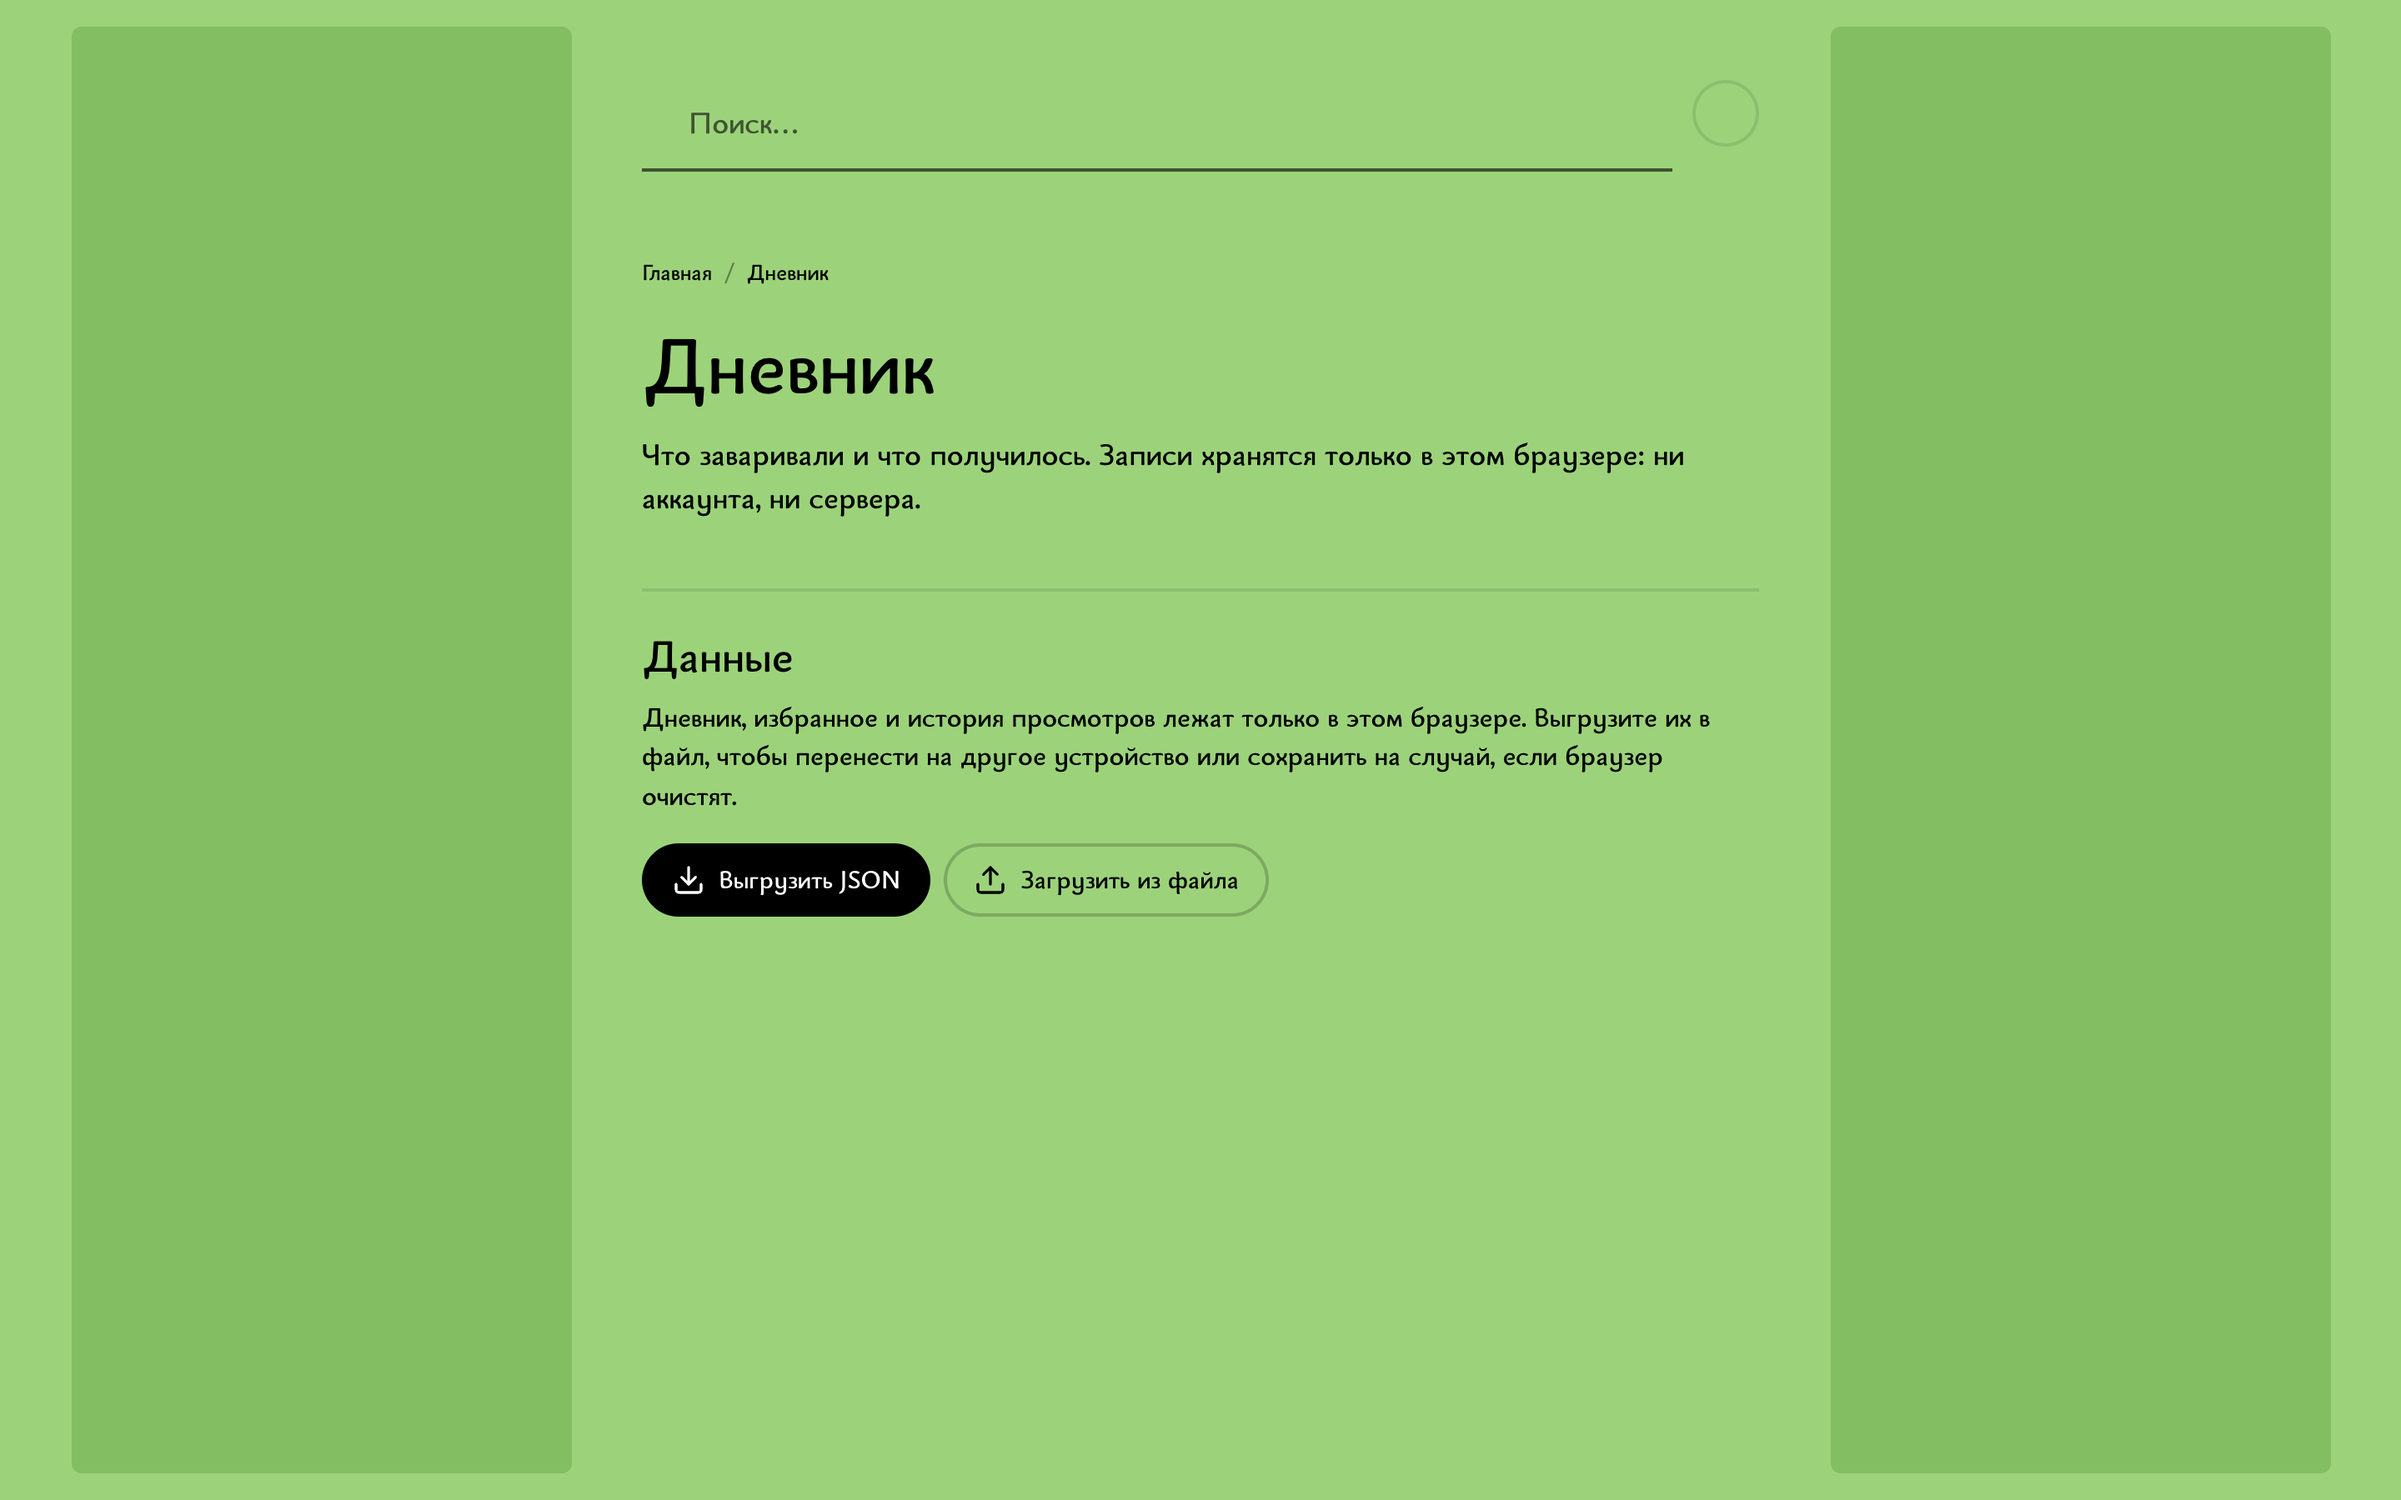
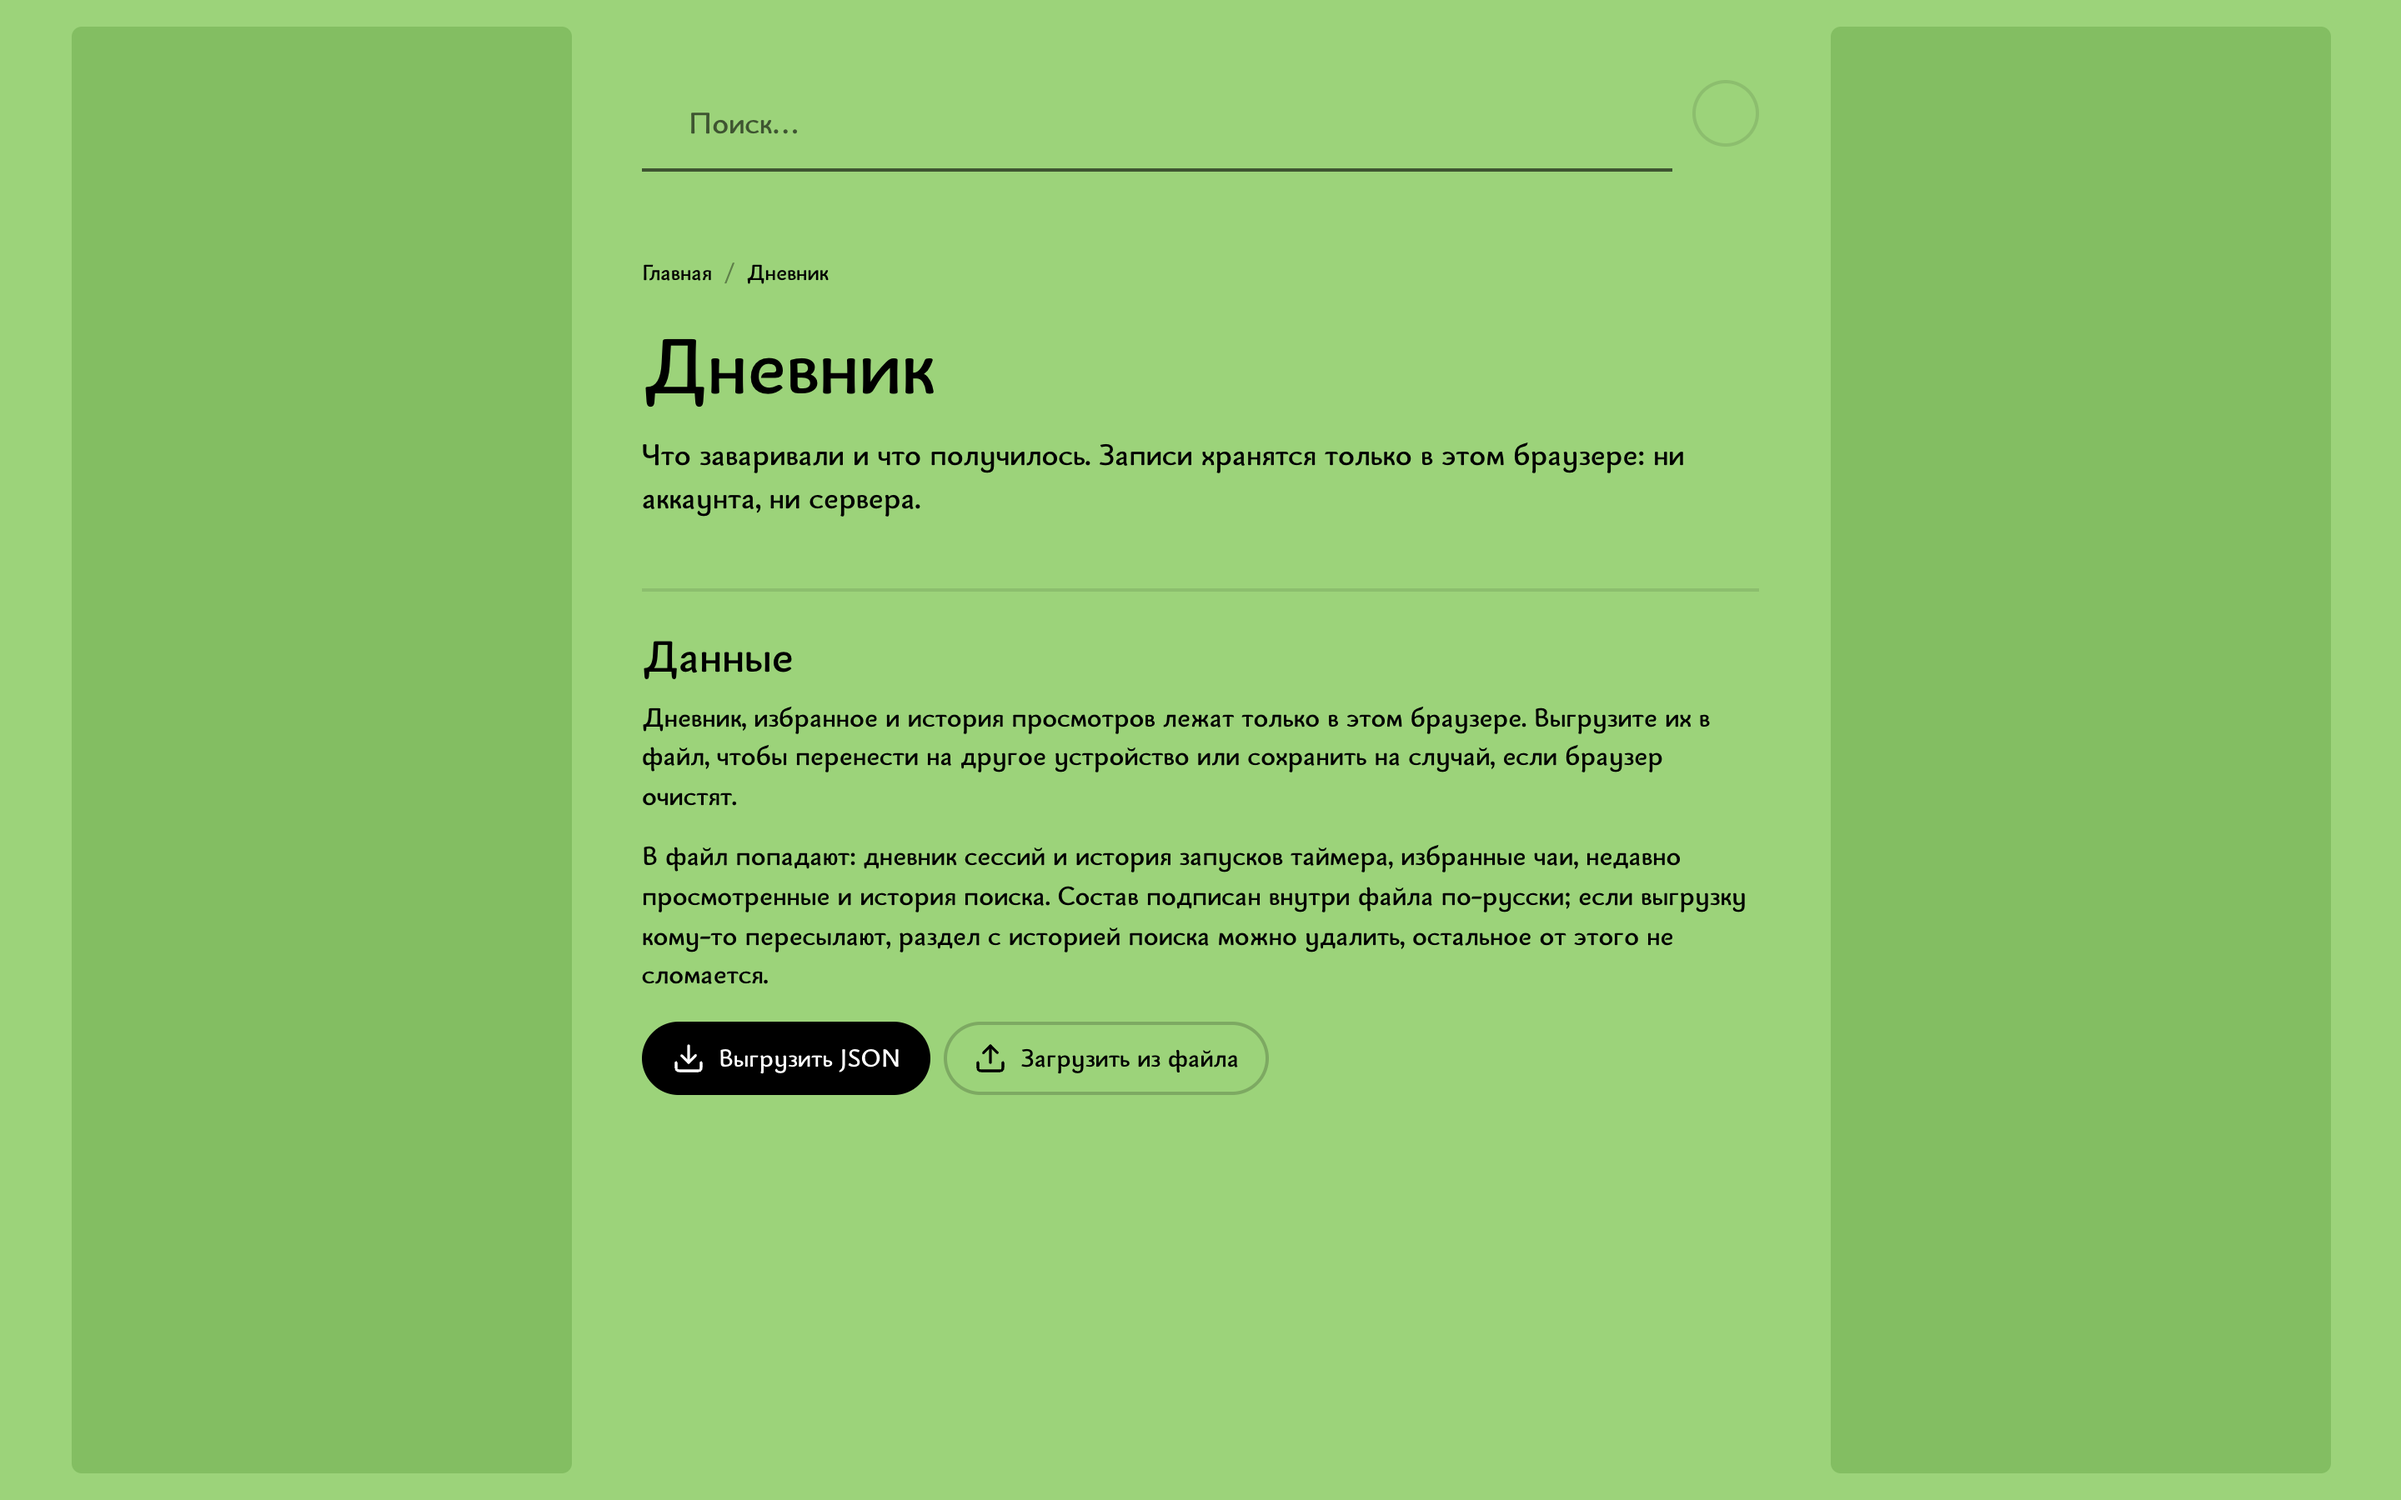
feat(features): назвать историю поиска в выгрузке явно
Функция называется «экспорт всех своих данных», поэтому история поиска
в файл попадает. Но выгрузку можно переслать, и это единственная её часть,
которую кто-то не захотел бы передавать, — значит человек должен видеть
её, открыв файл, а не догадываться по ключам.

- Раздел назван searchHistory, а не recentSearches.
- В файле появился раздел «содержимое» — состав выгрузки по-русски,
  с отдельной строкой про историю поиска и про то, что её можно удалить
  перед пересылкой.
- Тот же состав назван на самой странице, до нажатия кнопки.
- Файл с удалённым разделом импортируется как обычный.

Changed region(s): [[0.25, 0.56, 0.7188, 0.7467]]

diff --git a/lib/journal/transfer.ts b/lib/journal/transfer.ts
@@ -32,10 +32,23 @@ export type TransferFile = {
     format: typeof TRANSFER_FORMAT;
     formatVersion: number;
     exportedAt: string;
+    /**
+     * Что лежит в файле, по-русски. Выгрузку можно переслать, и человек
+     * должен видеть её состав, открыв файл, а не догадываться по ключам.
+     */
+    содержимое: Record<string, string>;
     journal: JournalData;
     favorites: string[];
     recentTeas: RecentTeaRecord[];
-    recentSearches: string[];
+    searchHistory: string[];
+};
+
+const CONTENTS: Record<string, string> = {
+    journal: "дневник сессий и история запусков таймера",
+    favorites: "избранные чаи",
+    recentTeas: "недавно просмотренные чаи",
+    searchHistory:
+        "история поиска — если файл кому-то пересылается, этот раздел можно удалить, остальное от этого не сломается",
 };
 
 export type TransferSummary = {
@@ -43,7 +56,7 @@ export type TransferSummary = {
     brews: number;
     favorites: number;
     recentTeas: number;
-    recentSearches: number;
+    searchHistory: number;
     exportedAt?: string;
     /** Файл сделан версией схемы новее нашей: часть полей может потеряться. */
     fromNewerVersion: boolean;
@@ -96,10 +109,11 @@ export function buildTransferFile(): TransferFile {
         format: TRANSFER_FORMAT,
         formatVersion: TRANSFER_FORMAT_VERSION,
         exportedAt: new Date().toISOString(),
+        содержимое: CONTENTS,
         journal: readJournal(),
         favorites: readStringArray(FAVORITES_KEY),
         recentTeas: readRecentTeas(),
-        recentSearches: readStringArray(RECENT_SEARCHES_KEY),
+        searchHistory: readStringArray(RECENT_SEARCHES_KEY),
     };
 }
 
@@ -145,6 +159,12 @@ export function parseTransferFile(text: string): {
             ? Number((candidate.journal as JournalData).version)
             : 0;
 
+    // Раздел с историей поиска можно удалить из файла перед пересылкой —
+    // тогда его просто не будет, это не ошибка.
+    const searchHistory = Array.isArray(candidate.searchHistory)
+        ? candidate.searchHistory
+        : [];
+
     const file: TransferFile = {
         format: TRANSFER_FORMAT,
         formatVersion:
@@ -170,11 +190,10 @@ export function parseTransferFile(text: string): {
                       typeof item.viewedAt === "string"
               )
             : [],
-        recentSearches: Array.isArray(candidate.recentSearches)
-            ? candidate.recentSearches.filter(
-                  (item): item is string => typeof item === "string"
-              )
-            : [],
+        содержимое: CONTENTS,
+        searchHistory: searchHistory.filter(
+            (item): item is string => typeof item === "string"
+        ),
     };
 
     return {
@@ -184,7 +203,7 @@ export function parseTransferFile(text: string): {
             brews: Object.keys(file.journal.brews).length,
             favorites: file.favorites.length,
             recentTeas: file.recentTeas.length,
-            recentSearches: file.recentSearches.length,
+            searchHistory: file.searchHistory.length,
             exportedAt: file.exportedAt,
             fromNewerVersion:
                 journalVersion > JOURNAL_SCHEMA_VERSION ||
@@ -267,7 +286,7 @@ export function applyTransferFile(file: TransferFile, mode: ImportMode): void {
         writeJournal(file.journal);
         writeStringArray(FAVORITES_KEY, file.favorites, FAVORITES_EVENT);
         writeRecentTeas(file.recentTeas);
-        writeStringArray(RECENT_SEARCHES_KEY, file.recentSearches);
+        writeStringArray(RECENT_SEARCHES_KEY, file.searchHistory);
         return;
     }
 
@@ -294,7 +313,7 @@ export function applyTransferFile(file: TransferFile, mode: ImportMode): void {
     writeRecentTeas(recentTeas);
 
     const searches = [
-        ...new Set([...readStringArray(RECENT_SEARCHES_KEY), ...file.recentSearches]),
+        ...new Set([...readStringArray(RECENT_SEARCHES_KEY), ...file.searchHistory]),
     ].slice(0, 5);
     writeStringArray(RECENT_SEARCHES_KEY, searches);
 }

diff --git a/app/components/features/DataTransfer.tsx b/app/components/features/DataTransfer.tsx
@@ -25,7 +25,7 @@ function countLine(summary: TransferSummary): string {
         `чаёв с историей заваривания: ${summary.brews}`,
         `избранного: ${summary.favorites}`,
         `просмотренных: ${summary.recentTeas}`,
-        `запросов поиска: ${summary.recentSearches}`,
+        `запросов поиска: ${summary.searchHistory}`,
     ];
 
     return parts.join(", ");
@@ -98,10 +98,16 @@ export default function DataTransfer() {
     return (
         <section className="mt-[40px] border-t-2 border-black/10 pt-[24px] dark:border-white/10">
             <h2 className="mb-[12px] text-[24px] leading-none sm:text-[28px]">Данные</h2>
-            <p className="mb-[16px] text-[17px] leading-[1.4]">
+            <p className="mb-[12px] text-[17px] leading-[1.4]">
                 Дневник, избранное и история просмотров лежат только в этом браузере.
                 Выгрузите их в файл, чтобы перенести на другое устройство или сохранить
                 на случай, если браузер очистят.
+            </p>
+            <p className="mb-[16px] text-[17px] leading-[1.4]">
+                В файл попадают: дневник сессий и история запусков таймера, избранные
+                чаи, недавно просмотренные и история поиска. Состав подписан внутри
+                файла по-русски; если выгрузку кому-то пересылают, раздел с историей
+                поиска можно удалить, остальное от этого не сломается.
             </p>
 
             <div className="flex flex-wrap gap-[8px]">

diff --git a/docs/features/README.md b/docs/features/README.md
@@ -123,12 +123,18 @@
 | `justea-journal` | дневник и история запусков таймера, схема версии 2 целиком |
 | `justea-favorites` | избранные чаи |
 | `justea-recent-teas` | недавно просмотренные |
-| `justea-recent-searches` | история поиска |
+| `justea-recent-searches` | история поиска, в файле раздел `searchHistory` |
 
 Три последних ключа живут отдельно от версионированной схемы, поэтому читаются
 и пишутся в `lib/journal/transfer.ts`, а не через чужие модули. Файл называется
 `justea-<дата>.json` и помечен изнутри: `"format": "justea-data"`,
 `"formatVersion": 1`.
+
+Внутри файла есть раздел `содержимое` — состав выгрузки по-русски. Выгрузку
+можно переслать, и человек должен видеть, что в ней, открыв файл, а не
+догадываться по ключам. Про историю поиска там сказано отдельно: если файл
+кому-то пересылают, этот раздел можно удалить, остальное от этого не сломается.
+Такой урезанный файл импортируется как обычный.
 
 ### Импорт
 
